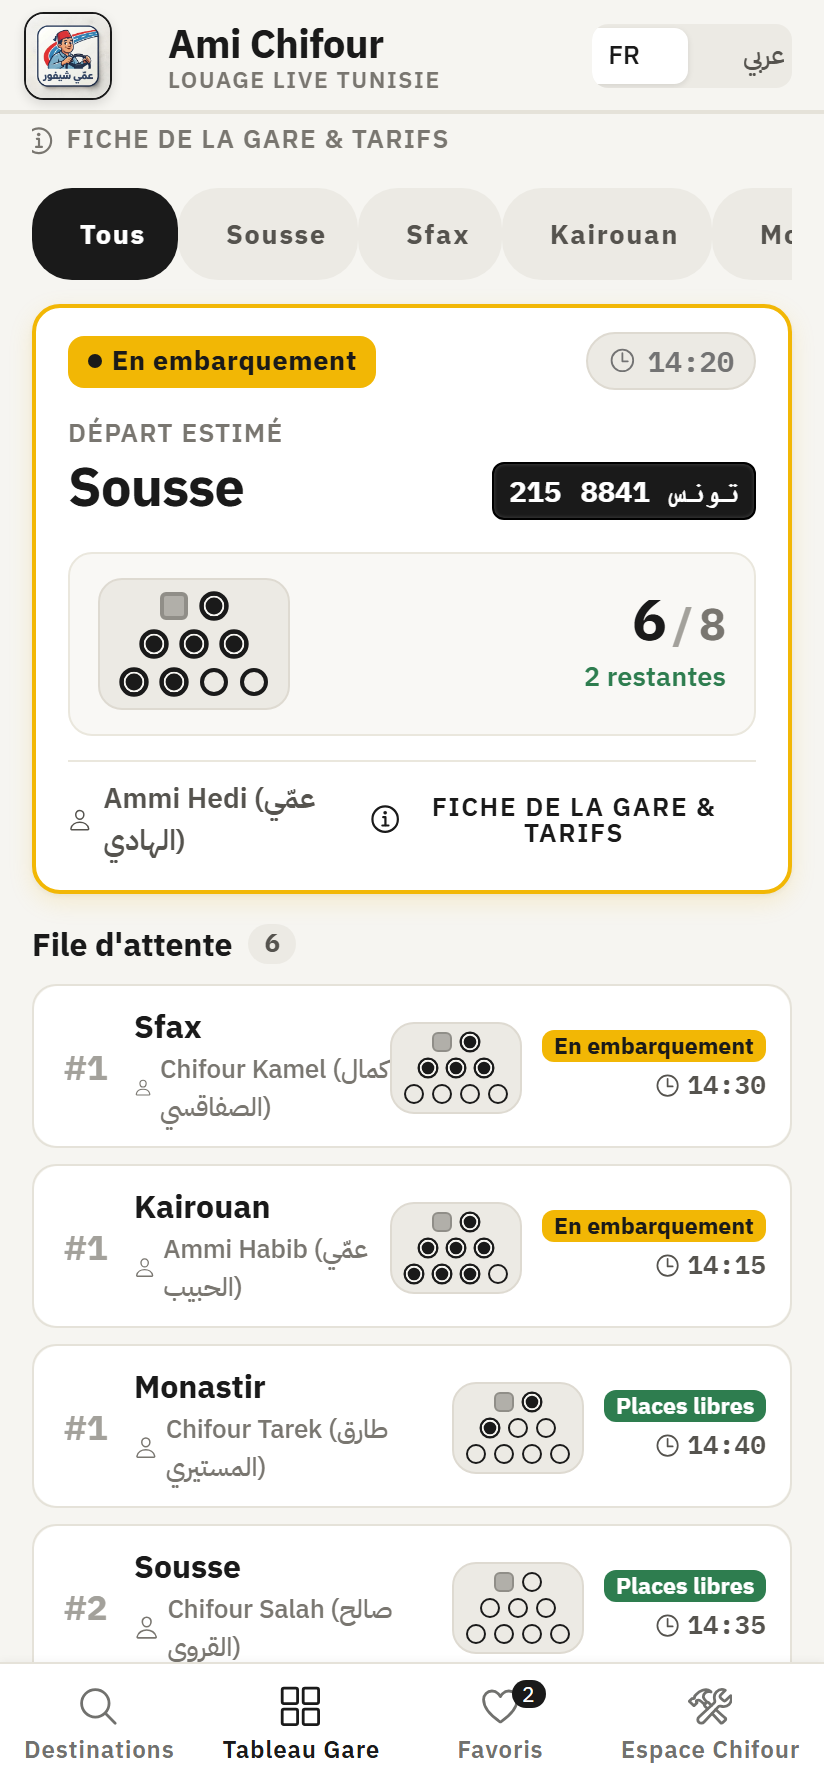
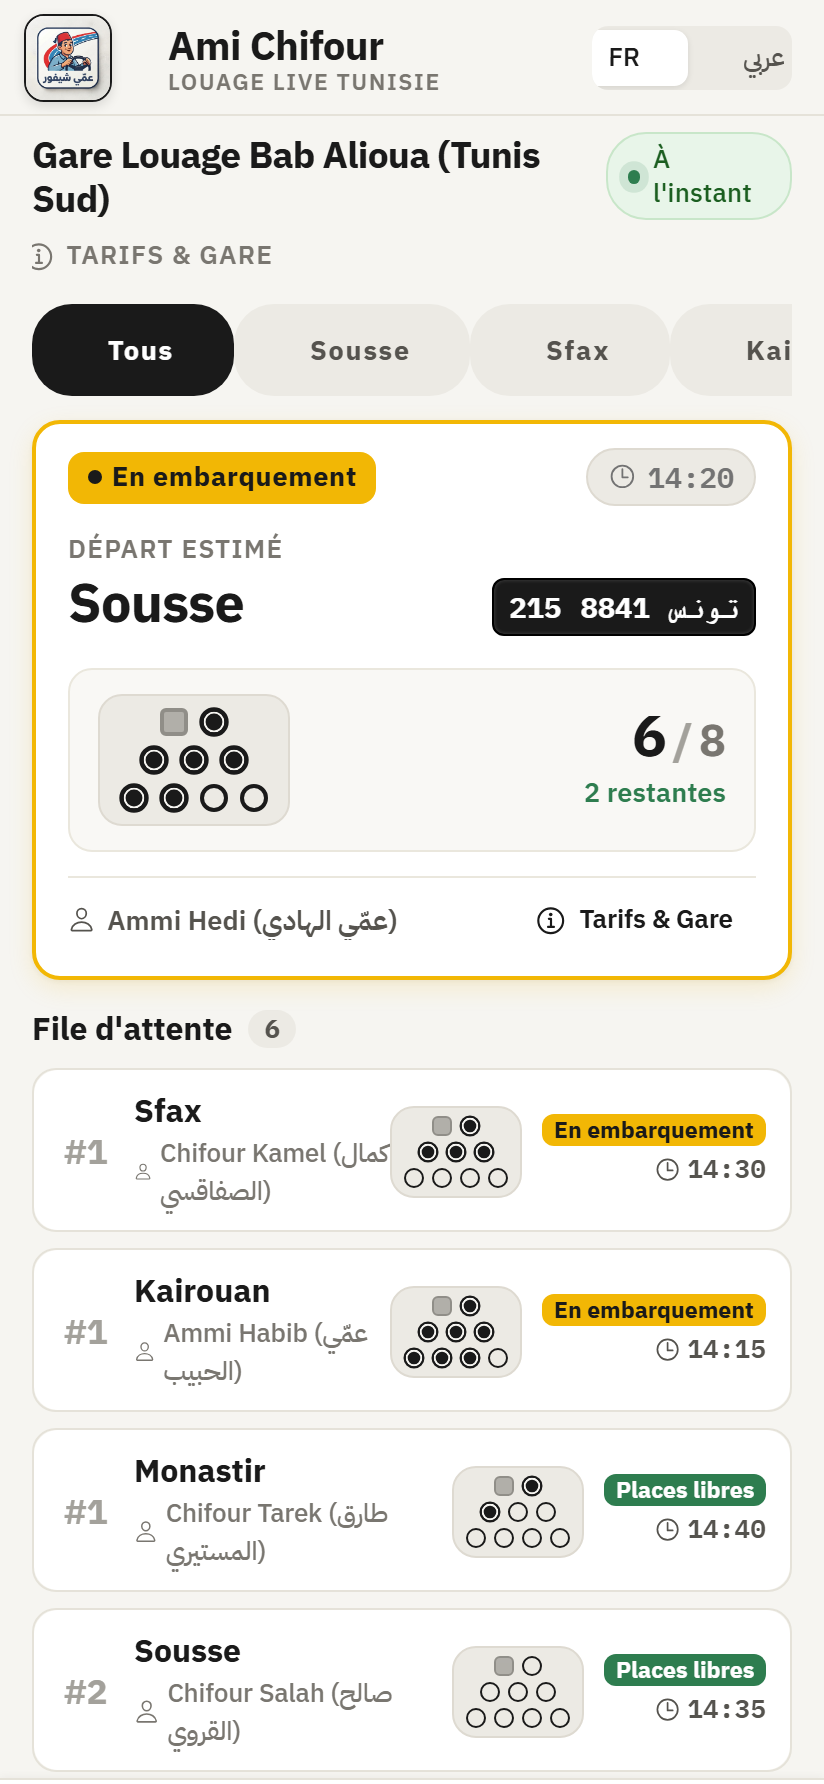
fix(ui): eliminate header overlap and chips horizontal squishing, update mobile screenshots

Changed region(s): [[0.0303, 0.0, 0.9709, 1.0], [0.9102, 0.0308, 0.9405, 0.0617]]

diff --git a/frontend/src/app/services/language.service.ts b/frontend/src/app/services/language.service.ts
@@ -87,7 +87,7 @@ const DICTIONARY: Record<Language, Translations> = {
     updatedSecondsAgo: 'Mis à jour il y a {s} s',
     streamPaused: 'Flux en pause (tirer pour actualiser)',
     pullToRefresh: 'Tirer pour actualiser',
-    stationDetails: 'Fiche de la gare & Tarifs',
+    stationDetails: 'Tarifs & Gare',
     operatingHours: 'Horaires d\'exploitation',
     address: 'Adresse de la station',
     phone: 'Standard / Bureau',
@@ -142,7 +142,7 @@ const DICTIONARY: Record<Language, Translations> = {
     updatedSecondsAgo: 'تم التحديث منذ {s} ثانية',
     streamPaused: 'البث متوقف (اسحب للتحديث)',
     pullToRefresh: 'اسحب للأسفل للتحديث',
-    stationDetails: 'تفاصيل المحطة والتعريفات',
+    stationDetails: 'التعريفة والمحطة',
     operatingHours: 'أوقات العمل',
     address: 'عنوان المحطة',
     phone: 'رقم الإدارة / المكتب',

diff --git a/frontend/src/app/pages/tabs/tabs.page.ts b/frontend/src/app/pages/tabs/tabs.page.ts
@@ -106,16 +106,40 @@ import { searchOutline, gridOutline, heartOutline, constructOutline, wifiOutline
     </ion-tabs>
   `,
   styles: [`
+    :host {
+      display: block;
+      position: relative;
+      width: 100%;
+      height: 100%;
+      overflow: hidden;
+    }
+
     .header-shell {
+      position: absolute;
+      top: 0;
+      left: 0;
+      right: 0;
+      height: 58px;
+      z-index: 100;
       background: var(--ion-background-color);
       border-bottom: 1px solid var(--app-border);
     }
 
+    ion-tabs {
+      position: absolute;
+      top: 58px;
+      left: 0;
+      right: 0;
+      bottom: 0;
+    }
+
     .main-toolbar {
+      --min-height: 58px;
+      height: 58px;
       --padding-start: 12px;
       --padding-end: 12px;
-      --padding-top: 6px;
-      --padding-bottom: 6px;
+      --padding-top: 4px;
+      --padding-bottom: 4px;
     }
 
     .brand-start {

diff --git a/frontend/src/app/components/boarding-card/boarding-card.component.ts b/frontend/src/app/components/boarding-card/boarding-card.component.ts
@@ -253,10 +253,11 @@ import { timeOutline, personOutline, carSportOutline, chevronForwardOutline, inf
       display: flex;
       justify-content: space-between;
       align-items: center;
-      font-size: 0.88rem;
+      font-size: 0.85rem;
       color: #55534E;
       border-top: 1px solid #EAE7DD;
       padding-top: 8px;
+      gap: 8px;
     }
 
     .driver-tag {
@@ -264,13 +265,19 @@ import { timeOutline, personOutline, carSportOutline, chevronForwardOutline, inf
       align-items: center;
       gap: 6px;
       font-weight: 600;
+      white-space: nowrap;
+      overflow: hidden;
+      text-overflow: ellipsis;
     }
 
     .info-btn {
       --color: #1A1A1A;
       font-weight: 600;
-      font-size: 0.82rem;
+      font-size: 0.8rem;
       margin: 0;
+      text-transform: none;
+      letter-spacing: normal;
+      flex-shrink: 0;
     }
   `]
 })

diff --git a/frontend/src/app/pages/search/search.page.ts b/frontend/src/app/pages/search/search.page.ts
@@ -217,12 +217,16 @@ import {
       overflow-x: auto;
       padding: 6px 0 14px 0;
       scrollbar-width: none;
+      -webkit-overflow-scrolling: touch;
     }
     .chips-scroll::-webkit-scrollbar {
       display: none;
     }
 
     .chips-scroll ion-chip {
+      flex-shrink: 0;
+      white-space: nowrap;
+      margin: 0;
       --background: #ECEAE4;
       --color: #1A1A1A;
       font-weight: 600;

diff --git a/frontend/src/app/pages/board/board.page.ts b/frontend/src/app/pages/board/board.page.ts
@@ -223,6 +223,8 @@ import {
     }
 
     .dest-segment ion-segment-button {
+      flex-shrink: 0;
+      white-space: nowrap;
       --background: #ECEAE4;
       --background-checked: #1A1A1A;
       --color: #55534E;
@@ -236,6 +238,7 @@ import {
       font-size: 0.85rem;
       text-transform: none;
       min-height: 32px;
+      padding: 0 14px;
     }
 
     .skeleton-block {
